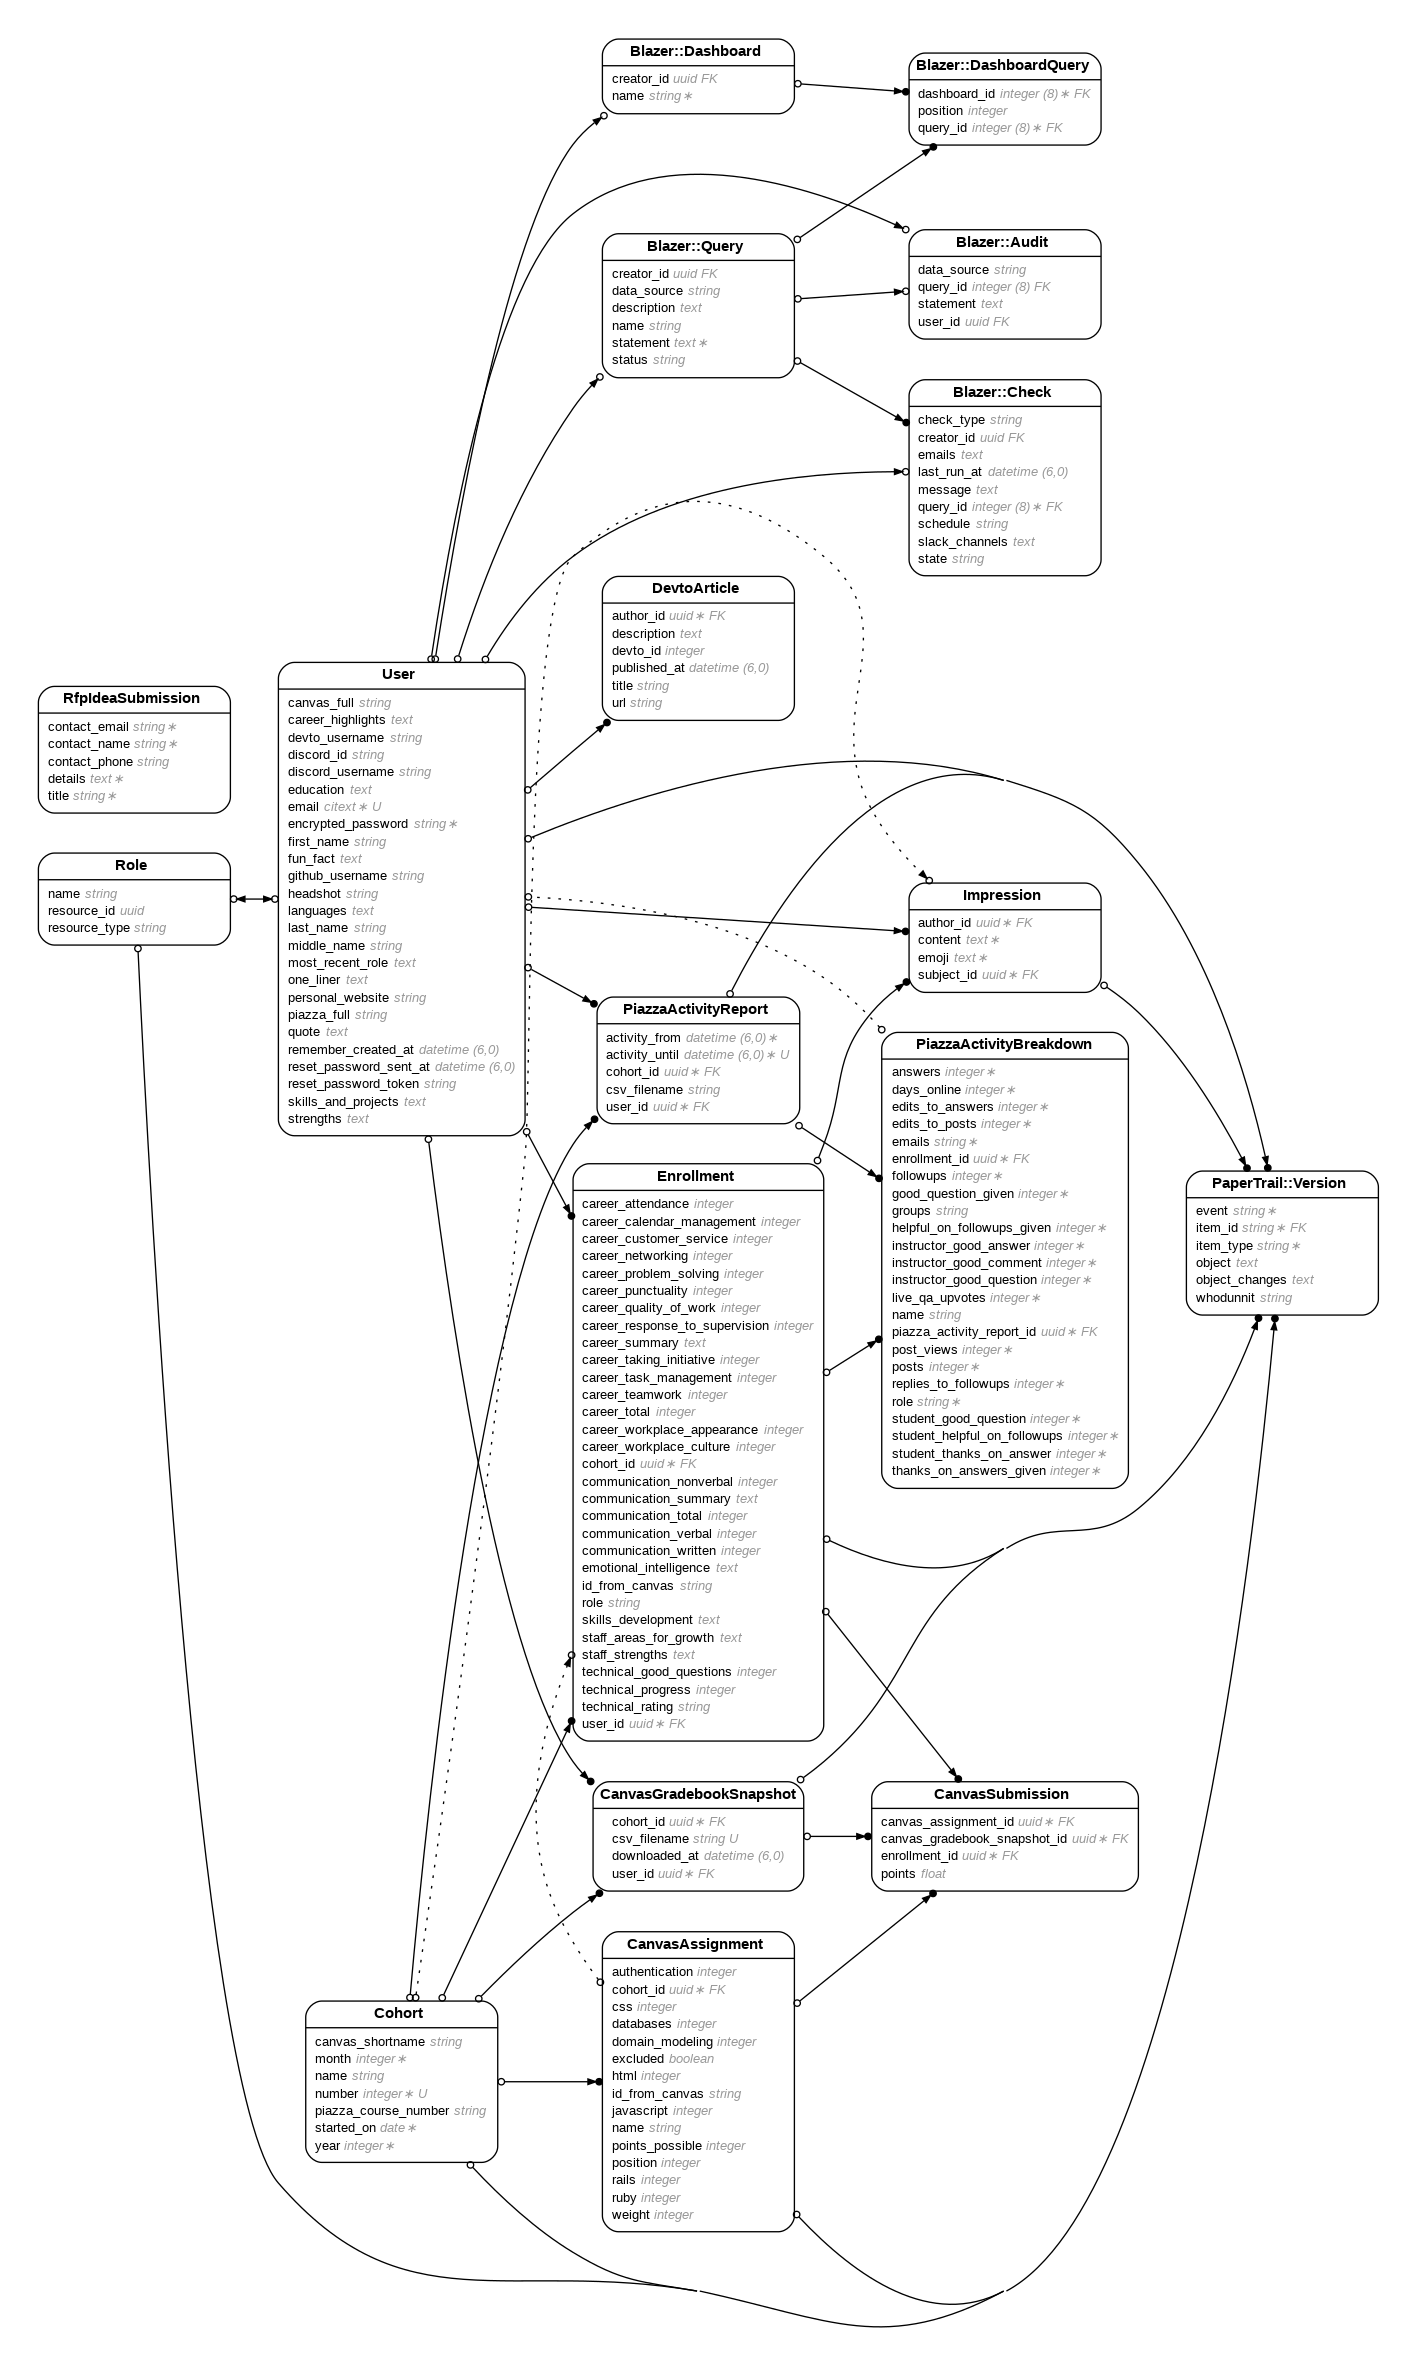
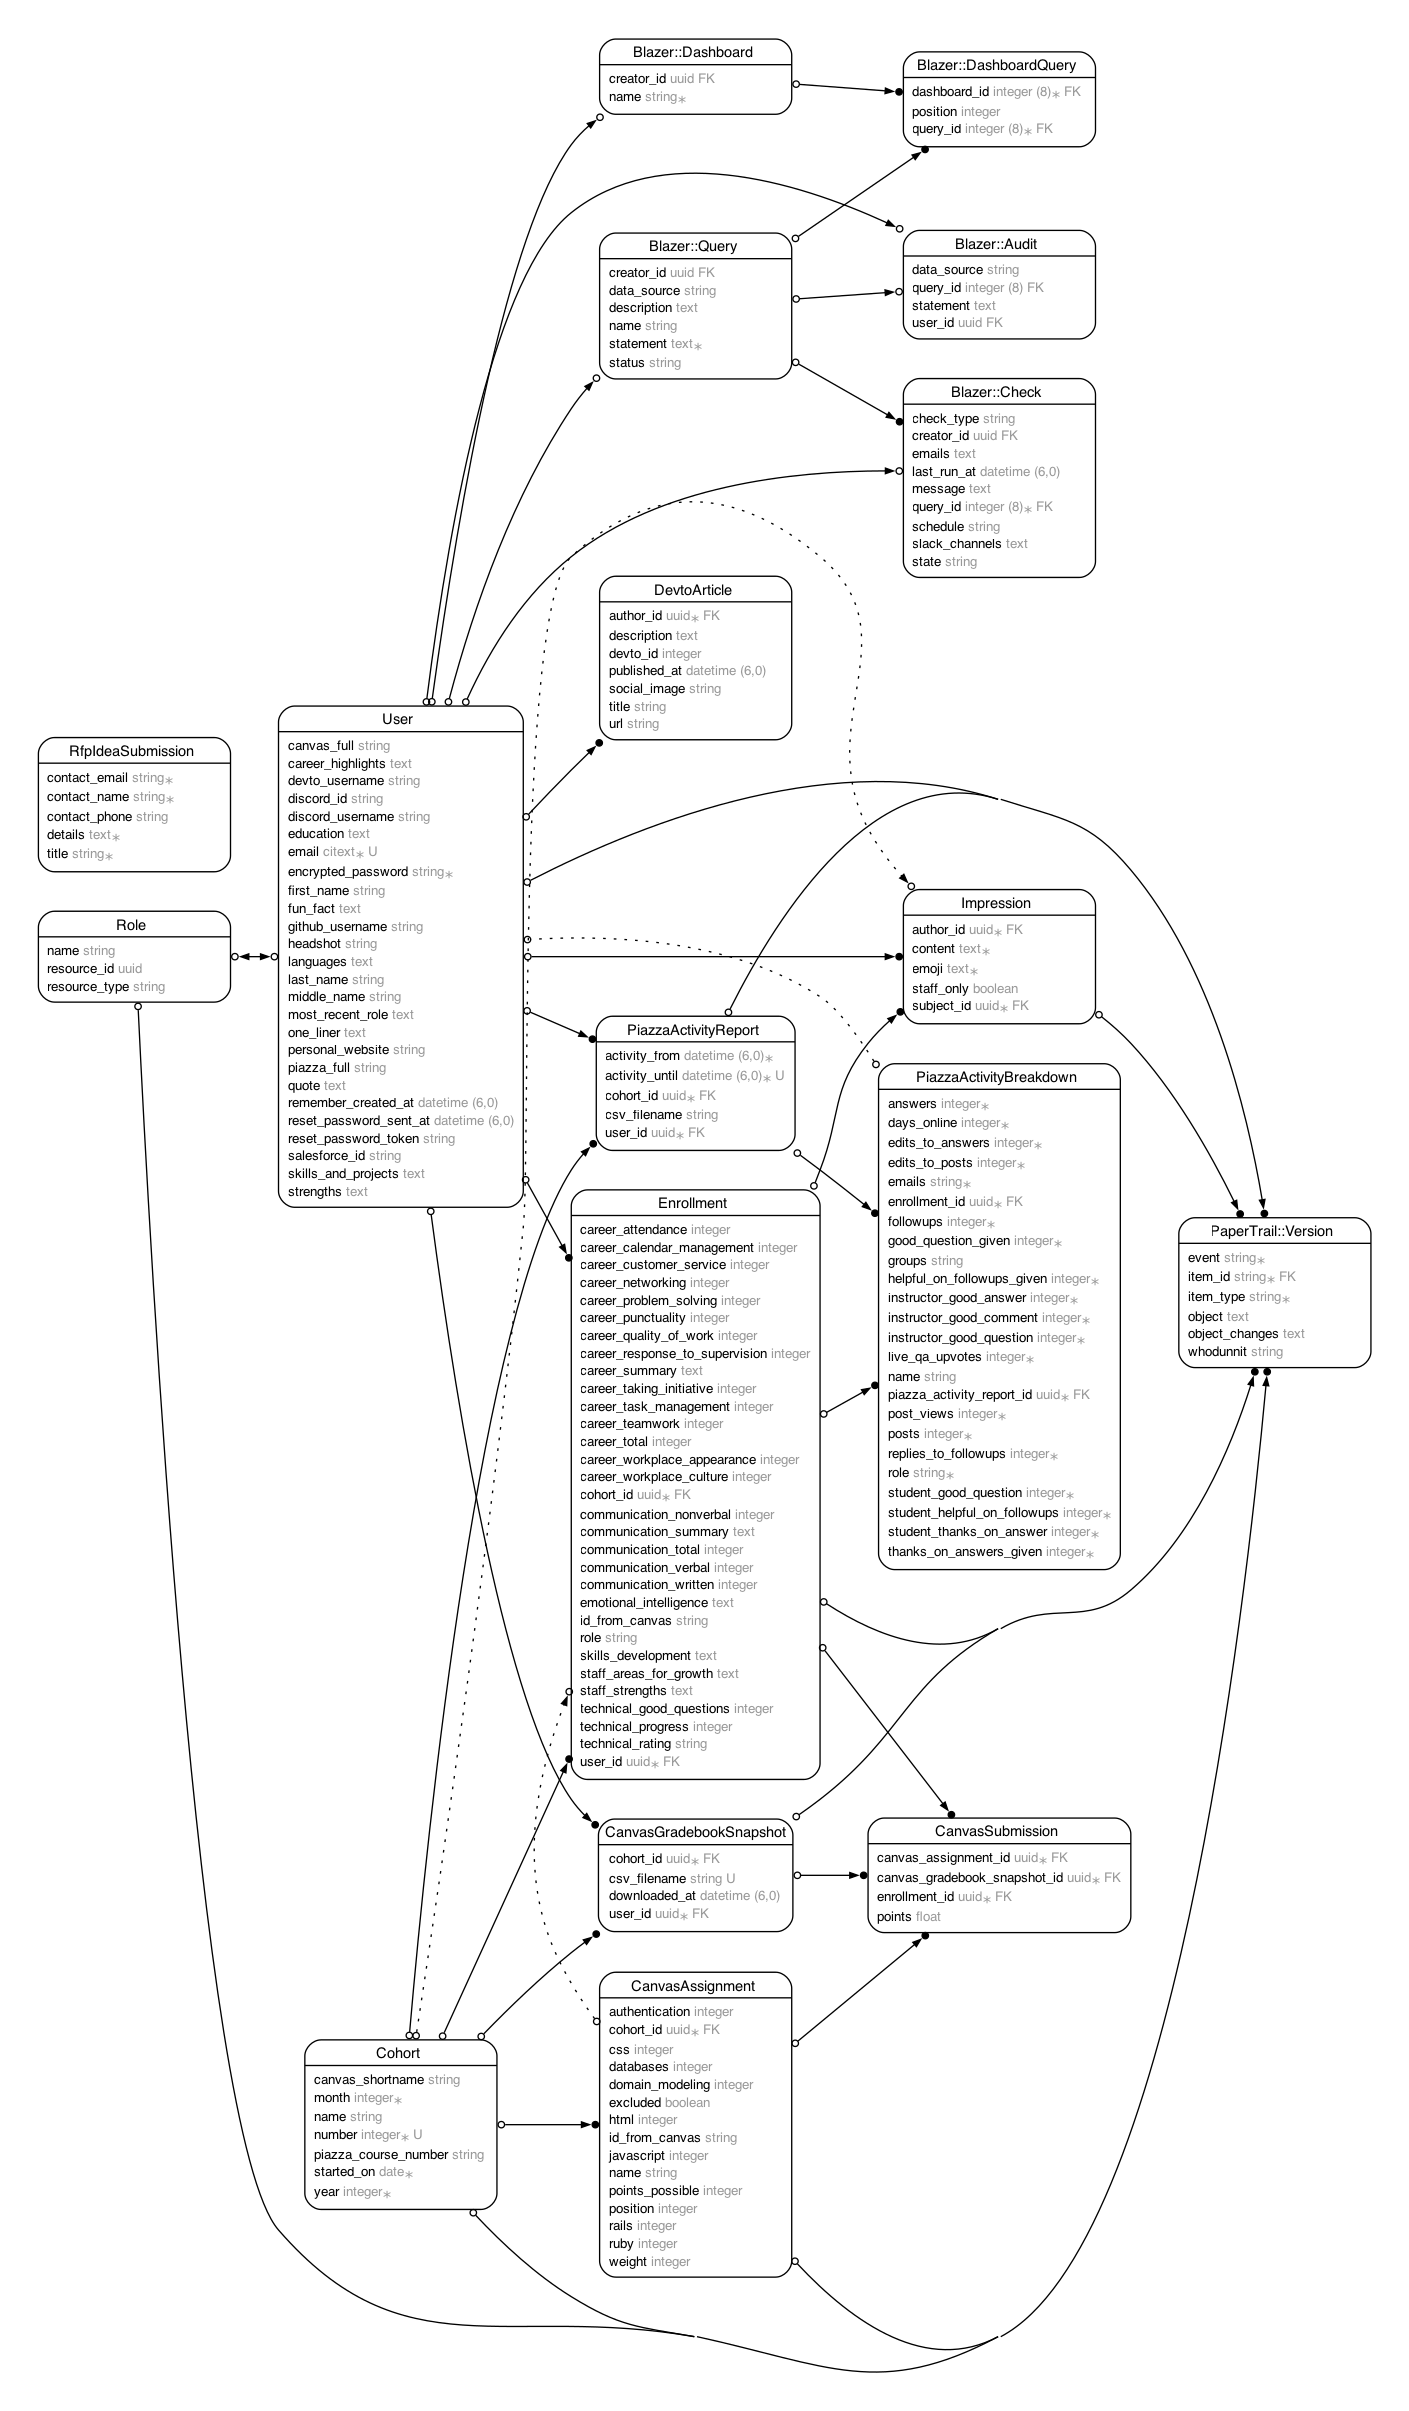
Run migration

diff --git a/db/schema.rb b/db/schema.rb
@@ -10,7 +10,7 @@
 #
 # It's strongly recommended that you check this file into your version control system.
 
-ActiveRecord::Schema[7.0].define(version: 2025_01_24_174951) do
+ActiveRecord::Schema[7.0].define(version: 2025_01_31_173635) do
   # These are extensions that must be enabled in order to support this database
   enable_extension "citext"
   enable_extension "pgcrypto"
@@ -188,6 +188,7 @@ ActiveRecord::Schema[7.0].define(version: 2025_01_24_174951) do
     t.text "emoji", null: false
     t.datetime "created_at", null: false
     t.datetime "updated_at", null: false
+    t.boolean "staff_only"
     t.index ["author_id"], name: "index_impressions_on_author_id"
     t.index ["subject_id"], name: "index_impressions_on_subject_id"
   end

diff --git a/app/models/impression.rb b/app/models/impression.rb
@@ -5,6 +5,7 @@
 #  id         :uuid             not null, primary key
 #  content    :text             not null
 #  emoji      :text             not null
+#  staff_only :boolean
 #  created_at :datetime         not null
 #  updated_at :datetime         not null
 #  author_id  :uuid             not null

diff --git a/db/migrate/20250131173635_add_staff_only_to_impressions.rb b/db/migrate/20250131173635_add_staff_only_to_impressions.rb
@@ -1,0 +1,5 @@
+class AddStaffOnlyToImpressions < ActiveRecord::Migration[7.0]
+  def change
+    add_column :impressions, :staff_only, :boolean
+  end
+end
